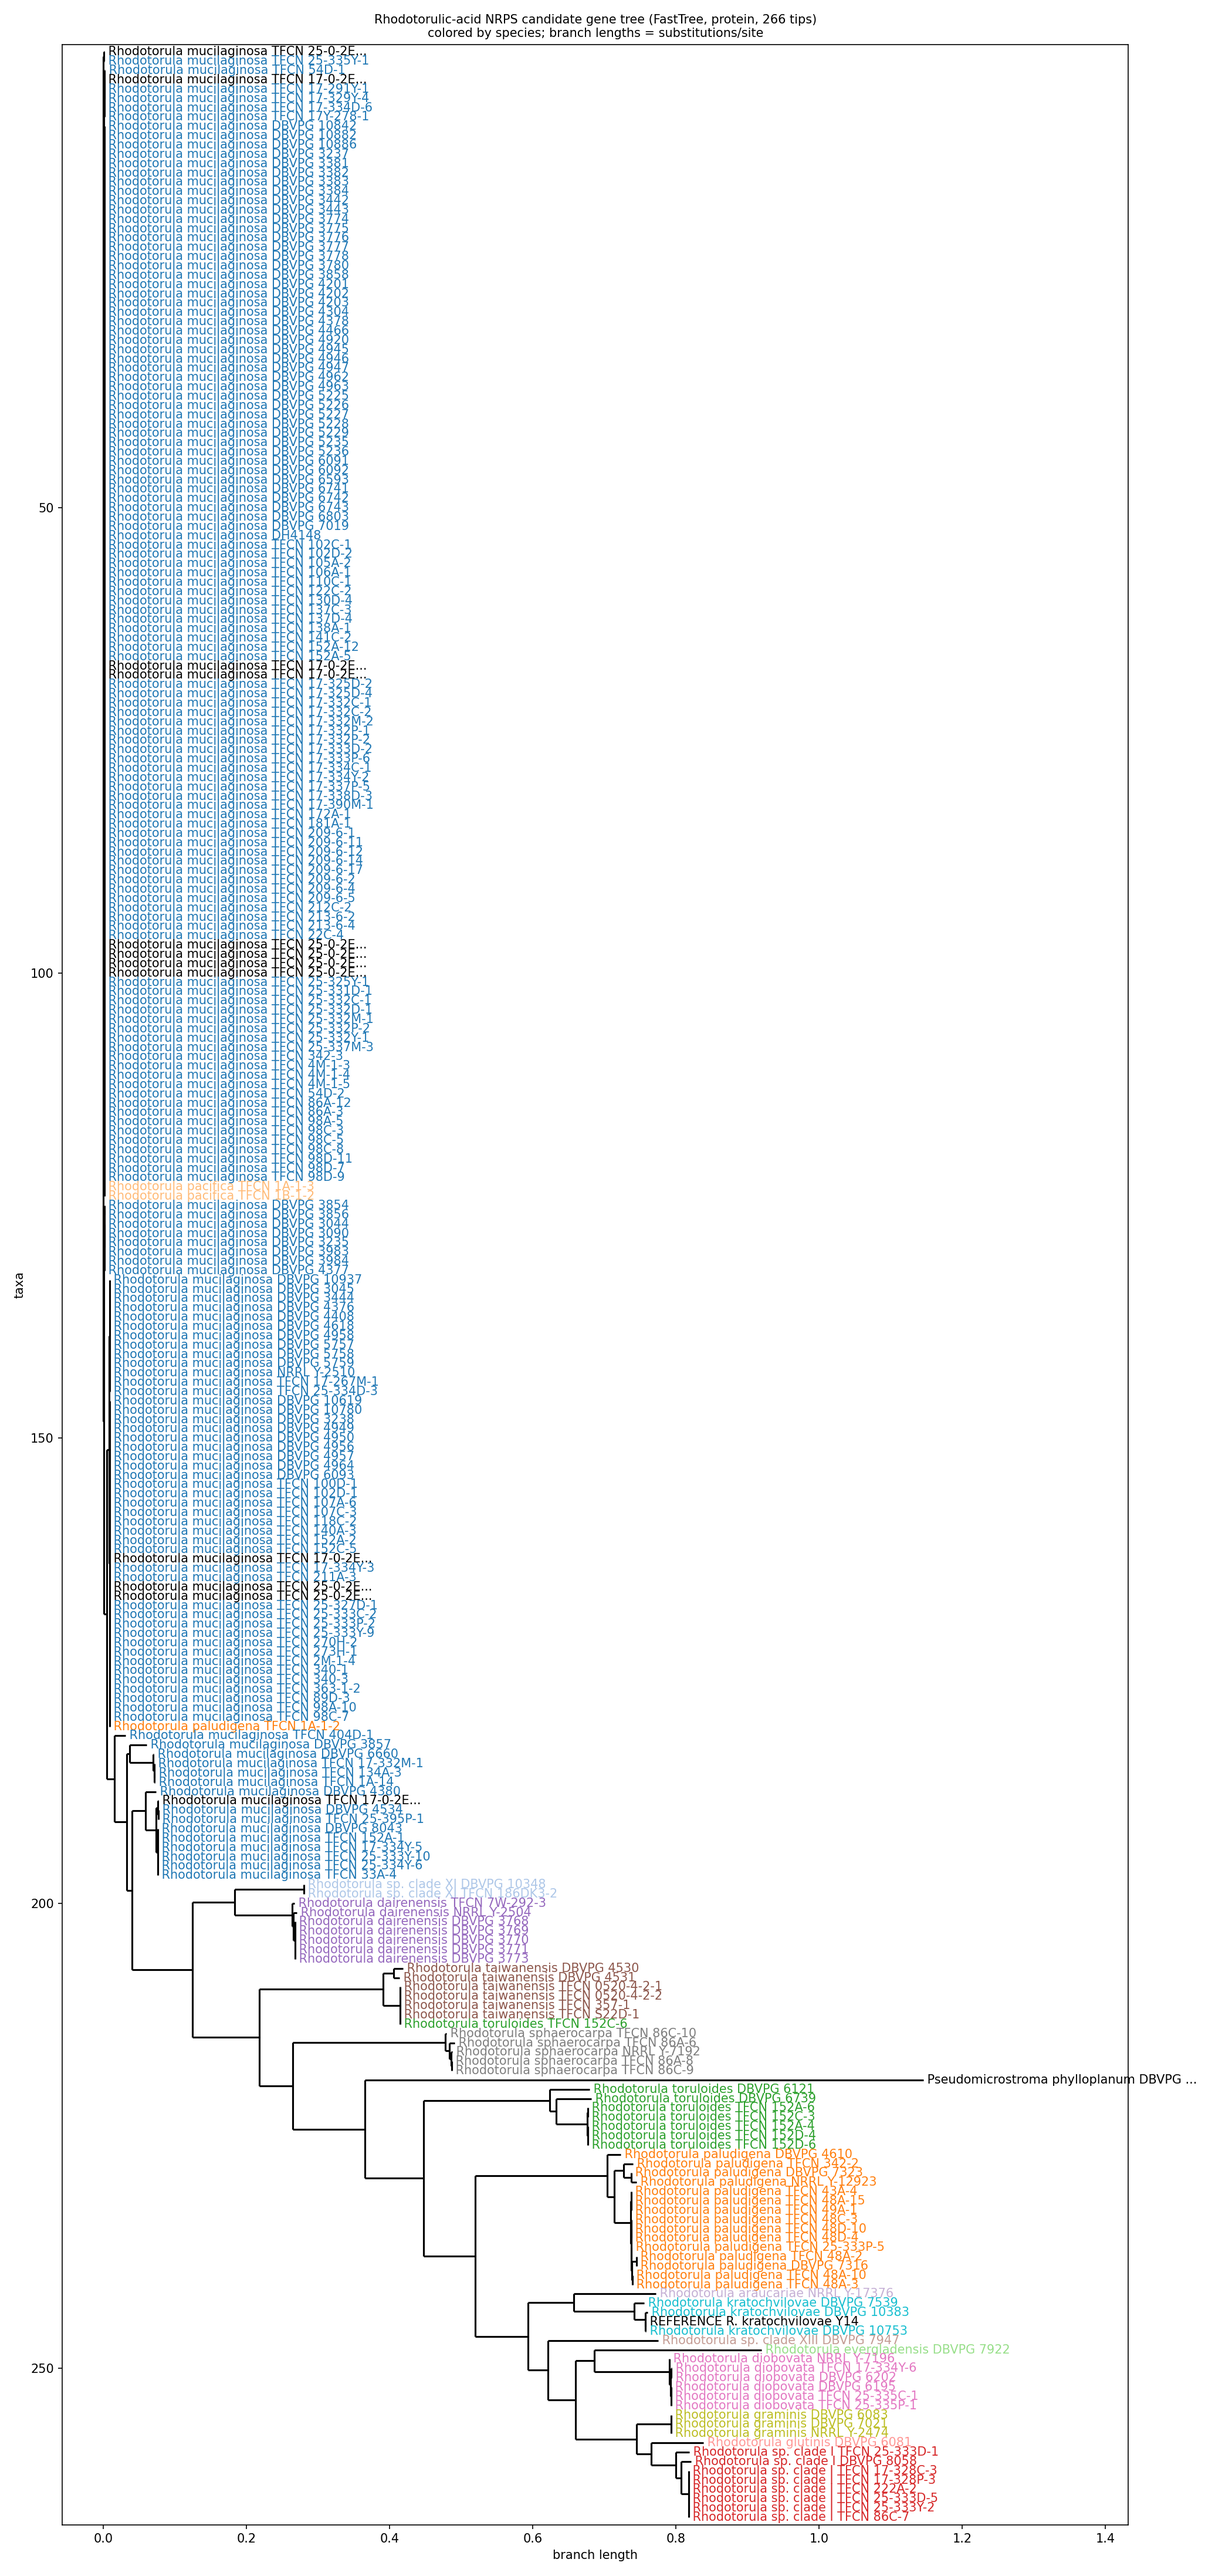
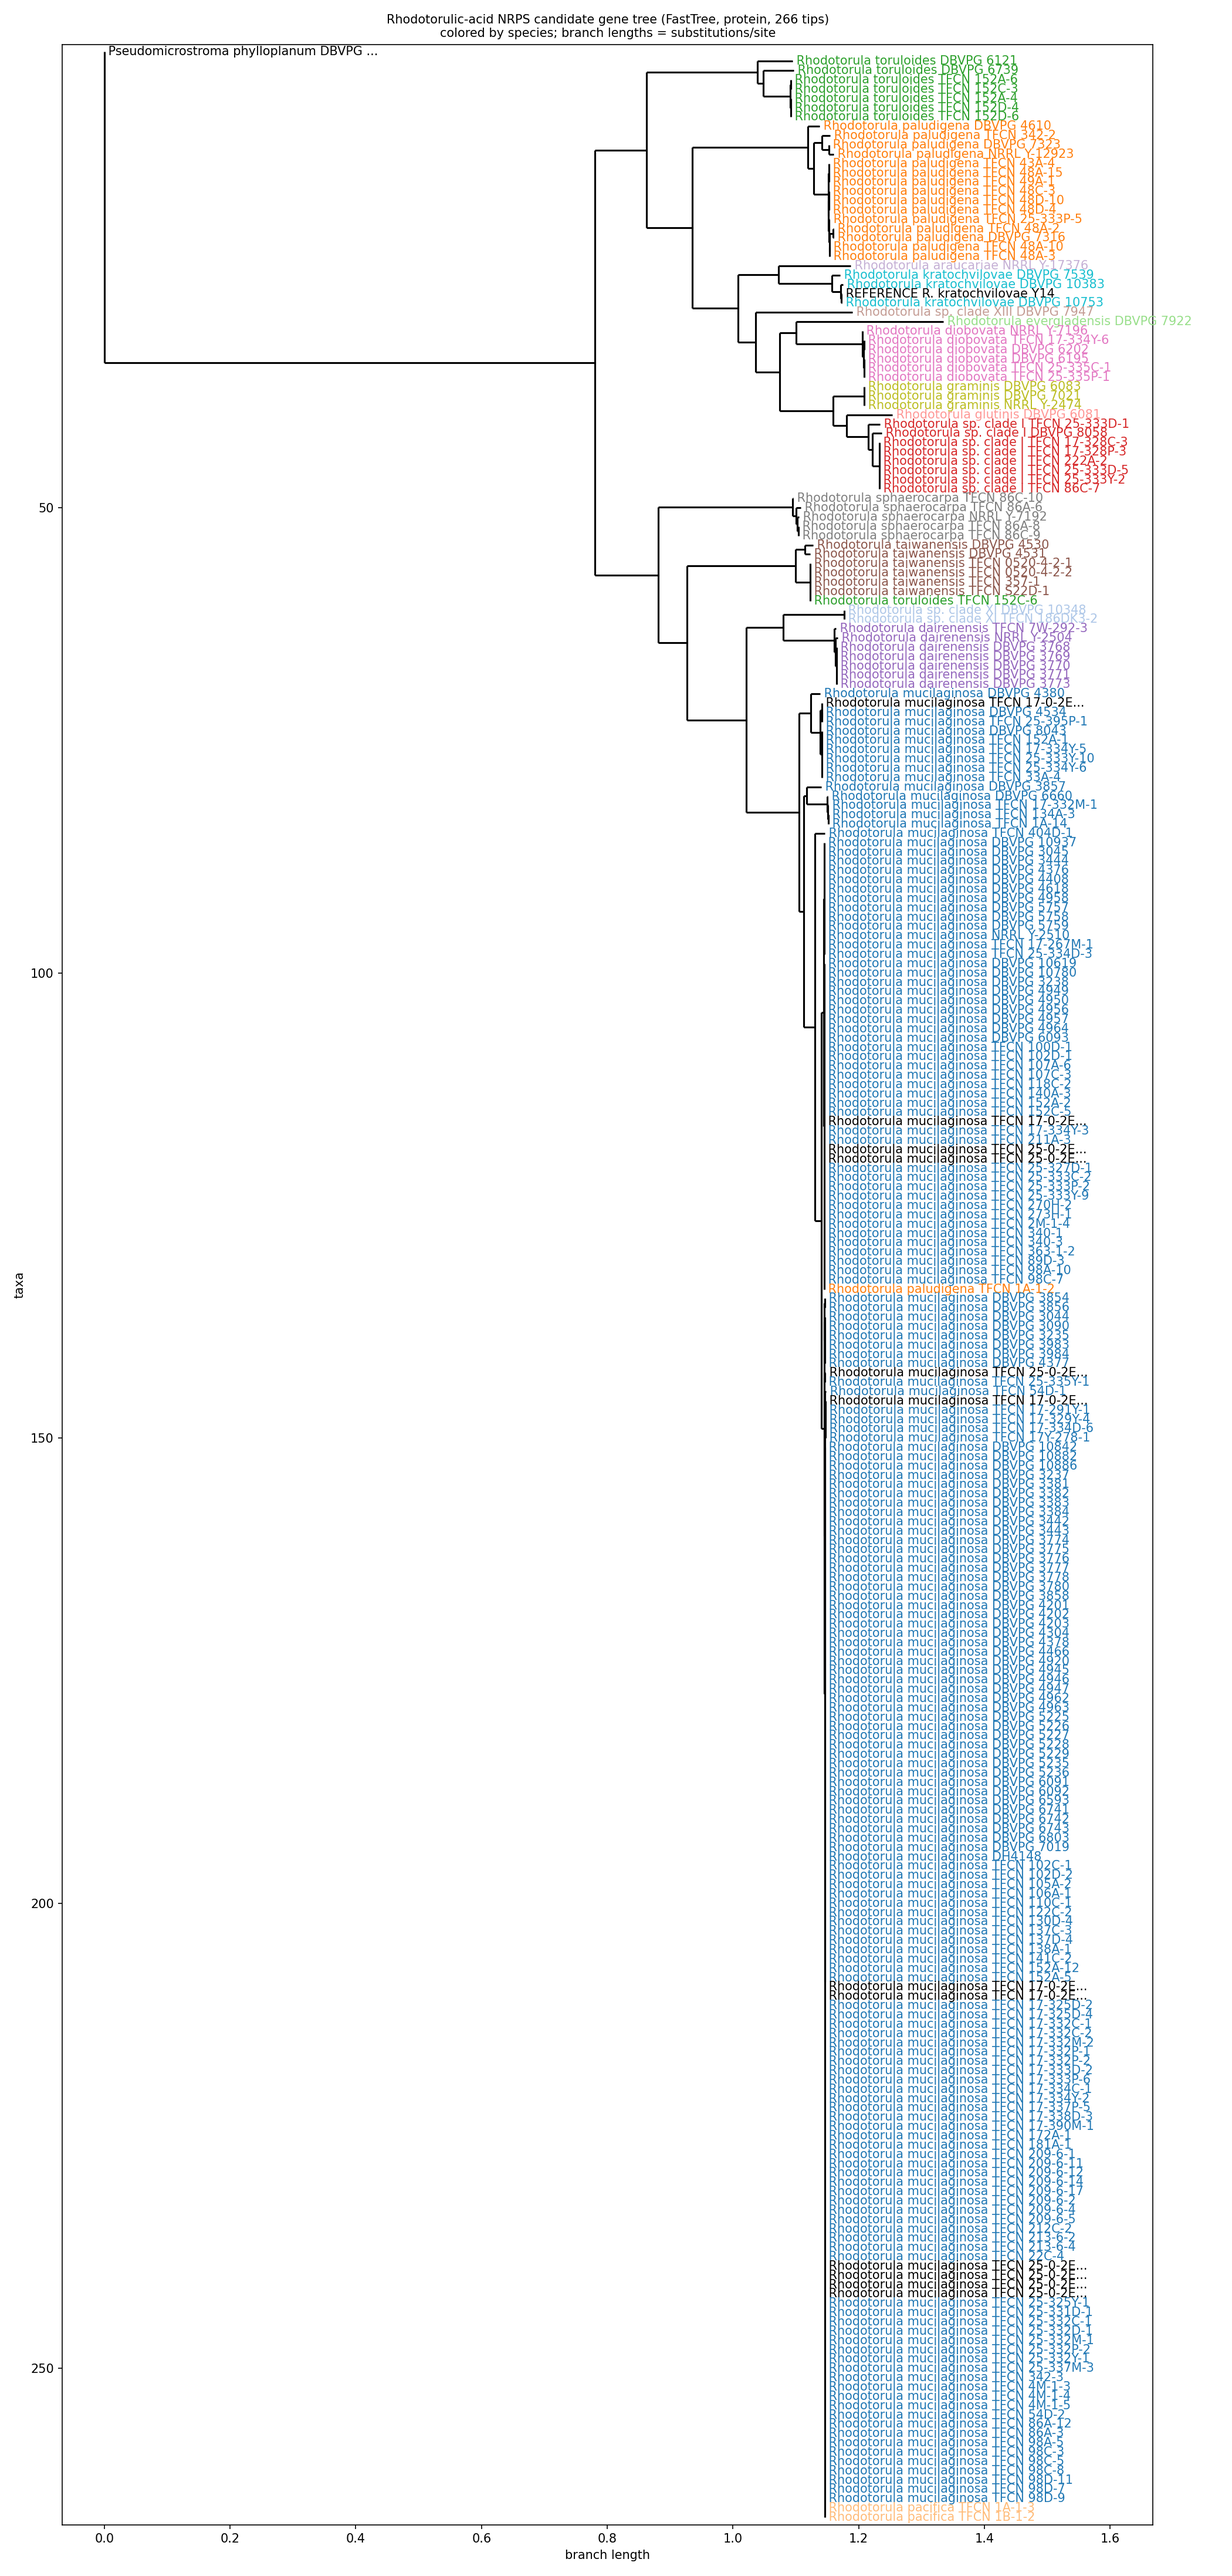
Re-root RA_NRPS gene tree on Pseudomicrostroma outgroup

Changed region(s): [[0.0619, 0.0, 0.9286, 0.9989]]

diff --git a/analysis/scripts/siderophore_nrps_plot_tree.py b/analysis/scripts/siderophore_nrps_plot_tree.py
@@ -22,6 +22,7 @@ OUT_DIR = REPO / "analysis" / "integrated_analysis" / "phase_siderophore" / "out
 GENE_TREE = OUT_DIR / "RA_NRPS_candidates.tree.nwk"
 STRAIN_SUMMARY = OUT_DIR / "RA_NRPS_strain_summary.csv"
 REF_NAME = "F2DD6D01_006956-T1"
+OUTGROUP_TIP = "DBVPG6740_002504-T1"
 
 SPECIES_COLORS = {
     "Rhodotorula mucilaginosa": "#1f77b4", "Rhodotorula paludigena": "#ff7f0e",
@@ -53,6 +54,11 @@ def main():
     protein_to_color[REF_NAME] = REF_COLOR
 
     tree = Phylo.read(str(GENE_TREE), "newick")
+
+    outgroup = tree.common_ancestor([c for c in tree.get_terminals()
+                                     if c.name == OUTGROUP_TIP])
+    if tree.root != outgroup:
+        tree.root_with_outgroup(outgroup)
     tree.ladderize()
 
     label_to_color = {}
